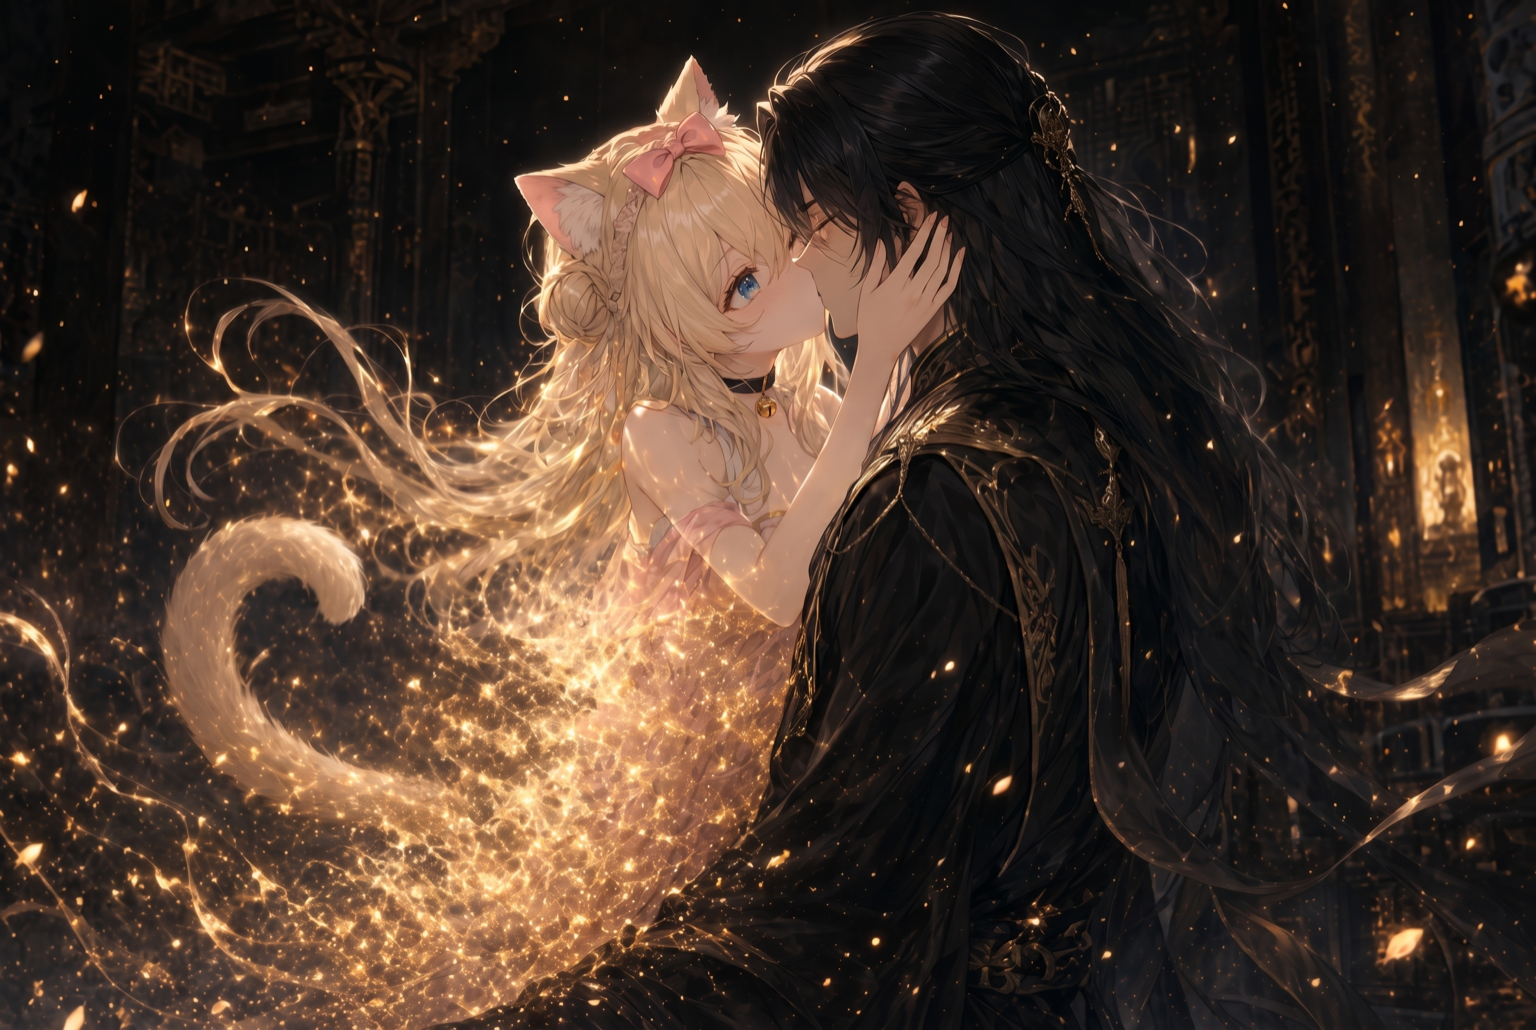
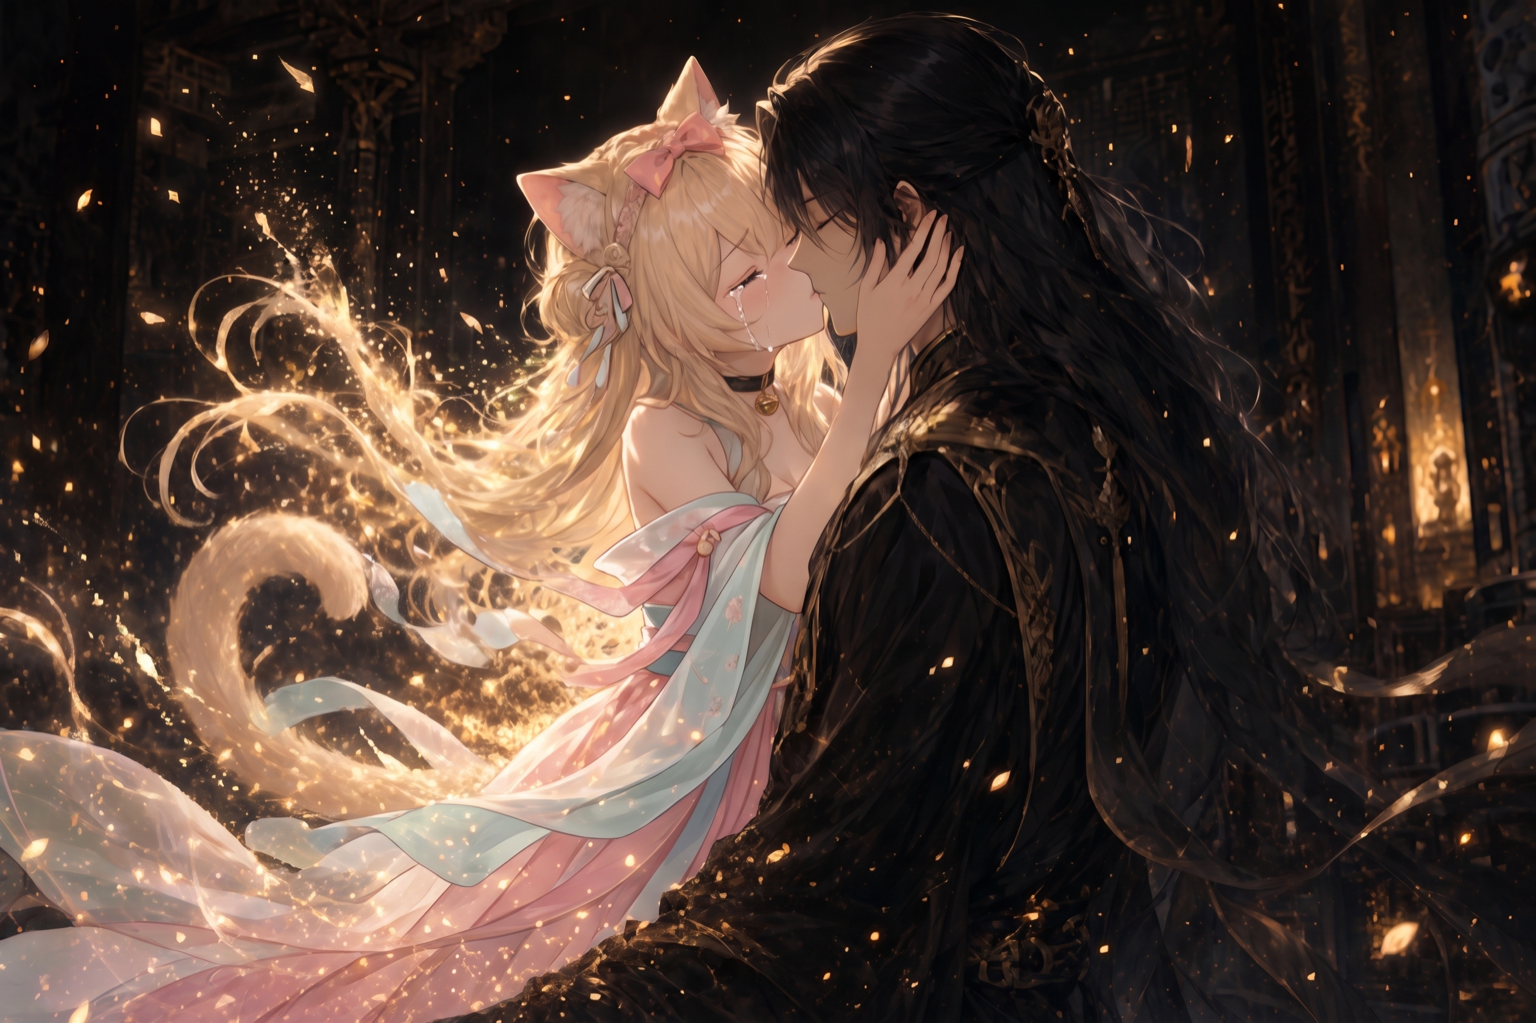
CG整改6张：质量/场景/表情修正（仅CG与生图工具，不含剧情WIP）
- demon_kiss：闭眼流泪+捧脸吻+下身化光消散（grsai，台词对齐）
- end_leave：兜帽老板娘闭口吃面（grsai-gpt-image-2高画质，修掉张嘴怪吃）
- leave_bath / leave_dawn：改回 gpt-image-2 高画质底图（修nano直出低质）
- leave_quilt：去掉多余尾巴
- morning_after：修正畸形手+娇羞娇嗔表情+露背
- check_bone：闭眼闭口娇羞·更色版（沿用上轮）
- tools/enhance_cg.py 提示词更新+GRSAI_MODEL可选；新增 tools/flux_enhance.py(BFL flux2)

注：codex gpt-image-2 本轮限额，end_leave/morning_after 走 grsai 通道补救

diff --git a/tools/flux_enhance.py b/tools/flux_enhance.py
@@ -1,0 +1,141 @@
+#!/usr/bin/env python3
+"""
+FLUX.2 [pro] 图生图编辑增强（Black Forest Labs 官方 API）
+文档: https://docs.bfl.ml
+
+用法:
+  python3 tools/flux_enhance.py <input.png> <output.png> "<edit prompt>"
+
+流程: POST /v1/flux-2-pro (input_image=base64 + prompt) → 轮询 polling_url → 下载 result.sample
+输入图应来自 gpt-image-2 底图，以保持一致性。
+"""
+import sys, os, base64, json, time, ssl, subprocess, tempfile, shutil, datetime, urllib.request
+
+# 持久化 key（也可用环境变量 BFL_API_KEY 覆盖）
+BFL_API_KEY = os.environ.get("BFL_API_KEY") or "bfl_9vJS6iSg42TlY9uxIMAoYFTiC1la9yNd"
+BFL_URL     = "https://api.bfl.ai/v1/flux-2-pro"
+CTX         = ssl._create_unverified_context()
+MODEL       = "flux-2-pro"
+
+# ── 归档/模型留痕：与 tools/lib/archive_img.sh 同格式（开发准则见 design/archive/README.md）──
+_ROOT         = os.path.dirname(os.path.dirname(os.path.abspath(__file__)))
+_ARCHIVE_DIR  = os.path.join(_ROOT, "design", "archive")
+_ARCHIVE_LOG  = os.path.join(_ARCHIVE_DIR, "ARCHIVE_LOG.tsv")
+_ASSET_MODELS = os.path.join(_ROOT, "design", "asset-models.tsv")
+
+
+def _in_repo(path):
+    """仅对仓库内的现役资产归档/记账；/tmp 等暂存输出不入档不入清单。"""
+    return not os.path.relpath(path, _ROOT).startswith("..")
+
+
+def _lookup_model(path):
+    if not os.path.isfile(_ASSET_MODELS):
+        return "unknown"
+    rel = os.path.relpath(path, _ROOT)
+    with open(_ASSET_MODELS) as f:
+        for ln in f:
+            p = ln.rstrip("\n").split("\t")
+            if p and p[0] == rel:
+                return p[1] if len(p) > 1 else "unknown"
+    return "unknown"
+
+
+def _archive(path, reason, model="unknown", note=""):
+    """覆盖前把旧图永久归档进 design/archive/，绝不直接覆盖丢失。"""
+    if not os.path.isfile(path):
+        return
+    name, ext = os.path.splitext(os.path.basename(path))
+    ext = ext.lstrip(".") or "png"
+    stamp = datetime.datetime.now(datetime.timezone.utc).strftime("%Y%m%dT%H%M%SZ")
+    dest_dir = os.path.join(_ARCHIVE_DIR, reason)
+    os.makedirs(dest_dir, exist_ok=True)
+    suffix = f"{name}__{reason}__{model}__{stamp}" + (f"__{note}" if note else "")
+    dest = os.path.join(dest_dir, f"{suffix}.{ext}")
+    i = 1
+    while os.path.exists(dest):
+        dest = os.path.join(dest_dir, f"{suffix}-{i}.{ext}"); i += 1
+    shutil.copy2(path, dest)
+    is_new = not os.path.isfile(_ARCHIVE_LOG)
+    with open(_ARCHIVE_LOG, "a") as f:
+        if is_new:
+            f.write("utc_iso\treason\tmodel\tasset_key\toriginal_path\tarchived_relpath\tnote\n")
+        f.write(f"{stamp}\t{reason}\t{model}\t{name}\t"
+                f"{os.path.relpath(path, _ROOT)}\t{os.path.relpath(dest, _ROOT)}\t{note}\n")
+
+
+def _record_model(path, model=MODEL, note=""):
+    """登记现役素材由哪个模型生成（一图一行，同路径覆盖旧记录）。"""
+    rel = os.path.relpath(path, _ROOT)
+    body = []
+    if os.path.isfile(_ASSET_MODELS):
+        with open(_ASSET_MODELS) as f:
+            for ln in f:
+                p = ln.rstrip("\n").split("\t")
+                if p and p[0] not in ("relpath", rel):
+                    body.append(p)
+    body.append([rel, model, note])
+    with open(_ASSET_MODELS, "w") as f:
+        f.write("relpath\tmodel\tnote\n")
+        for r in body:
+            f.write("\t".join((r + ["", ""])[:3]) + "\n")
+
+
+def _b64(path, max_px=2048):
+    tmp = tempfile.mktemp(suffix=".png")
+    subprocess.run(["sips", "-Z", str(max_px), path, "--out", tmp], capture_output=True, check=True)
+    with open(tmp, "rb") as f:
+        b = base64.b64encode(f.read()).decode()
+    os.unlink(tmp)
+    return b
+
+
+def edit(input_path, output_path, prompt):
+    payload = {
+        "prompt": prompt,
+        "input_image": _b64(input_path),
+        "width": int(os.environ.get("FLUX_W", "2400")),
+        "height": int(os.environ.get("FLUX_H", "1600")),
+        "output_format": "png",
+        # 0=最严 2=默认 5=最宽松
+        "safety_tolerance": int(os.environ.get("FLUX_SAFETY", "5")),
+    }
+    req = urllib.request.Request(
+        BFL_URL, data=json.dumps(payload).encode(),
+        headers={"x-key": BFL_API_KEY, "Content-Type": "application/json", "accept": "application/json"},
+    )
+    with urllib.request.urlopen(req, timeout=60, context=CTX) as r:
+        sub = json.loads(r.read())
+    polling_url = sub.get("polling_url")
+    if not polling_url:
+        raise RuntimeError(f"no polling_url: {sub}")
+    print(f"[flux] submitted id={sub.get('id')}")
+
+    # 轮询
+    for i in range(60):
+        time.sleep(2)
+        preq = urllib.request.Request(polling_url, headers={"x-key": BFL_API_KEY, "accept": "application/json"})
+        with urllib.request.urlopen(preq, timeout=30, context=CTX) as r:
+            res = json.loads(r.read())
+        st = res.get("status")
+        if st == "Ready":
+            url = res["result"]["sample"]
+            if _in_repo(output_path):                                       # 暂存到/tmp则跳过
+                _archive(output_path, "original", _lookup_model(output_path))   # 覆盖前留底旧图
+            with urllib.request.urlopen(url, timeout=60, context=CTX) as ir:
+                open(output_path, "wb").write(ir.read())
+            if _in_repo(output_path):
+                _record_model(output_path, MODEL, "img2img增强")            # 标注生成模型
+            print(f"[flux] Ready -> {output_path}")
+            return url
+        if st in ("Error", "Failed", "Content Moderated", "Request Moderated"):
+            raise RuntimeError(f"flux status={st}: {res}")
+        print(f"[flux] {st}... ({i})")
+    raise RuntimeError("flux timeout")
+
+
+if __name__ == "__main__":
+    if len(sys.argv) != 4:
+        print('Usage: python3 tools/flux_enhance.py <input.png> <output.png> "<prompt>"')
+        sys.exit(1)
+    edit(sys.argv[1], sys.argv[2], sys.argv[3])

diff --git a/tools/enhance_cg.py b/tools/enhance_cg.py
@@ -19,7 +19,7 @@ import sys, base64, json, urllib.request, ssl, subprocess, os, tempfile
 
 GRSAI_KEY = "sk-fadeebb690d74c7f82adf5655db17ea0"
 GRSAI_URL = "https://grsaiapi.com/v1/api/generate"
-MODEL     = "nano-banana-pro"
+MODEL     = os.environ.get("GRSAI_MODEL", "nano-banana-pro")
 CTX       = ssl._create_unverified_context()
 
 
@@ -137,11 +137,19 @@ PROMPTS = {
     ),
     "cg_morning_after": (
         "high-quality anime visual novel event CG, Chinese xianxia fantasy, late morning sunlight. "
-        "Cute cat-girl with cream-blonde wavy hair in two side buns, fluffy cat ears, big blue eyes, "
-        "pink ribbon bow, black choker with golden bell. Lying on front on a bed, thin white silk blanket "
-        "slipped down to her lower back revealing her fully bare back, the curve of her waist and hip suggested "
-        "under the edge of the blanket, glancing back over her shoulder with a slow satisfied smile, "
-        "one finger beckoning. Maximize languid morning-after allure."
+        "Cute cat-girl with cream-blonde wavy hair in side buns, fluffy cat ears, big blue eyes, pink bow, "
+        "black choker golden bell, fluffy tail. Lying on her front on a bed, thin white quilt slipped to her "
+        "lower back baring her smooth back, shy coy bashful blush, languid little smile. "
+        "Both arms folded and resting naturally on the pillow in front of her, hands relaxed and natural with "
+        "clean correct fingers. Tasteful shy morning allure."
+    ),
+    "cg_end_leave": (
+        "high-quality anime visual novel event CG, Chinese xianxia fantasy, cozy dusk street noodle stall, warm amber lanterns, steam. "
+        "Cute cat-girl with cream-blonde wavy hair in two side buns, fluffy cat ears, big blue eyes, pink bow, black choker golden bell. "
+        "She wears a loose hood with her cat ears poking it up, happily eating a big bowl of noodles — her CHEEKS PUFFED FULL and round "
+        "with noodles, mouth closed and stuffed (chipmunk cheeks, NOT open-mouthed), chopsticks in hand, content happy eyes. "
+        "Behind the stall a young black-ponytail man in plain clothes cooks noodles smiling faintly, a cloth-wrapped sword leans on the bench. "
+        "Warm homely peaceful, keep her cute youthful face."
     ),
     "cg_banquet_gown": (
         "high-quality anime visual novel event CG, Chinese xianxia fantasy, lantern-lit banquet hall. "
@@ -185,11 +193,13 @@ PROMPTS = {
     ),
     "cg_check_bone": (
         "high-quality anime visual novel event CG, Chinese xianxia fantasy, dim candlelit night room. "
-        "Cute cat-girl with cream-blonde wavy hair, fluffy cat ears, big blue eyes, pink bow, black choker golden bell, fluffy tail. "
+        "Cute cat-girl with cream-blonde wavy hair, fluffy cat ears, pink bow, black choker golden bell, fluffy tail. "
         "Pressing herself tightly against the bare back of a young man with long black ponytail, her ear and cheek "
-        "flat on his skin between the shoulder blades, eyes closed melting into a blissful blush, "
-        "her hands gripping his shoulders, her own collar loosened off one shoulder from leaning in, "
-        "tail wrapped around his arm. Maximize the intimate skinship and her flushed melting expression."
+        "flat on his skin between the shoulder blades. EXPRESSION: BOTH her eyes are gently and fully CLOSED, "
+        "a shy bashful blissful blush across her cheeks, a tender tiny closed-mouth smile, demure and innocent, "
+        "NOT looking at the viewer, NOT winking, both eyes closed. "
+        "Her hanfu robe is loosened and slipped far down off both shoulders, baring her shoulders, back and cleavage, "
+        "tail wrapped around his arm. Maximize the intimate skinship and revealing slipped robe, with the shy closed-eyes expression."
     ),
     "cg_cling_cry": (
         "high-quality anime visual novel event CG, Chinese xianxia fantasy, dim warm room. "
@@ -282,8 +292,10 @@ PROMPTS.update({
         "Maximize the black-and-white skin contrast intimacy."
     ),
     "cg_demon_kiss": _CG + _CATGIRL + (
-        "Dark hall golden sparks. Cupping his face kissing him passionately, her body below the waist "
-        "dissolved into golden light, her gauze top slipping, tragic passionate. Maximize the kiss intensity."
+        "Dark hall with golden light motes. She cups the black-robed man's face and kisses him softly. "
+        "Her EYES are gently CLOSED with glistening TEARS streaming down her cheeks, sorrowful tender. "
+        "Her lower body and gauze dress are dissolving and scattering upward into golden light particles. "
+        "Her thin gauze slips off her shoulders baring shoulders and back. Tragic, bittersweet, eyes closed crying while kissing and fading."
     ),
     "cg_leave_bath": _CG + _CATGIRL + (
         "Backyard night wooden bath tub, lantern, steam. Risen slightly from the water, bare shoulders "
@@ -296,9 +308,9 @@ PROMPTS.update({
         "Maximize tipsy clingy allure."
     ),
     "cg_leave_quilt": _CG + _CATGIRL + (
-        "Winter bedroom night. Under one quilt burrowed against his chest, quilt slipped showing her "
-        "bare shoulder and the strap-less curve of her back, content sleeping face, tail out of quilt. "
-        "More intimate cozy skinship."
+        "Winter bedroom night. Under one thick quilt burrowed against the man's chest, only the top of "
+        "her head, cat ears and a content sleeping face peeking out, bare shoulder showing. "
+        "NO tail anywhere — do not show any tail. Cozy intimate skinship, warm domestic."
     ),
     "cg_leave_dawn": _CG + _CATGIRL + (
         "Dawn kitchen. Wearing only his oversized robe slipping off one shoulder, hem riding up as she "
